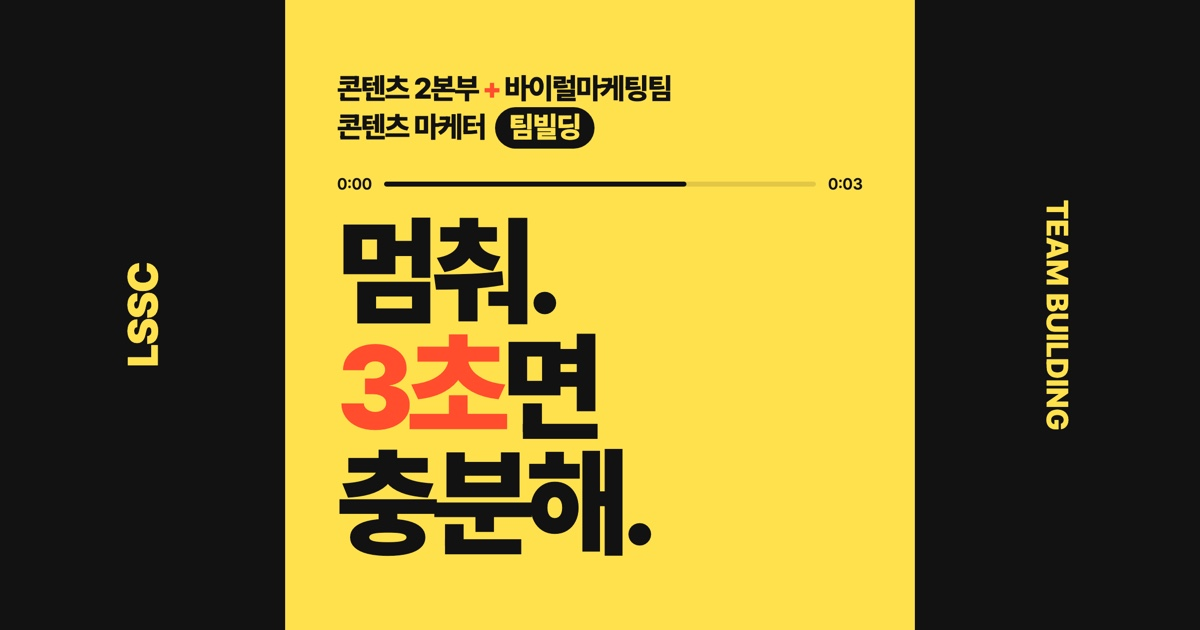
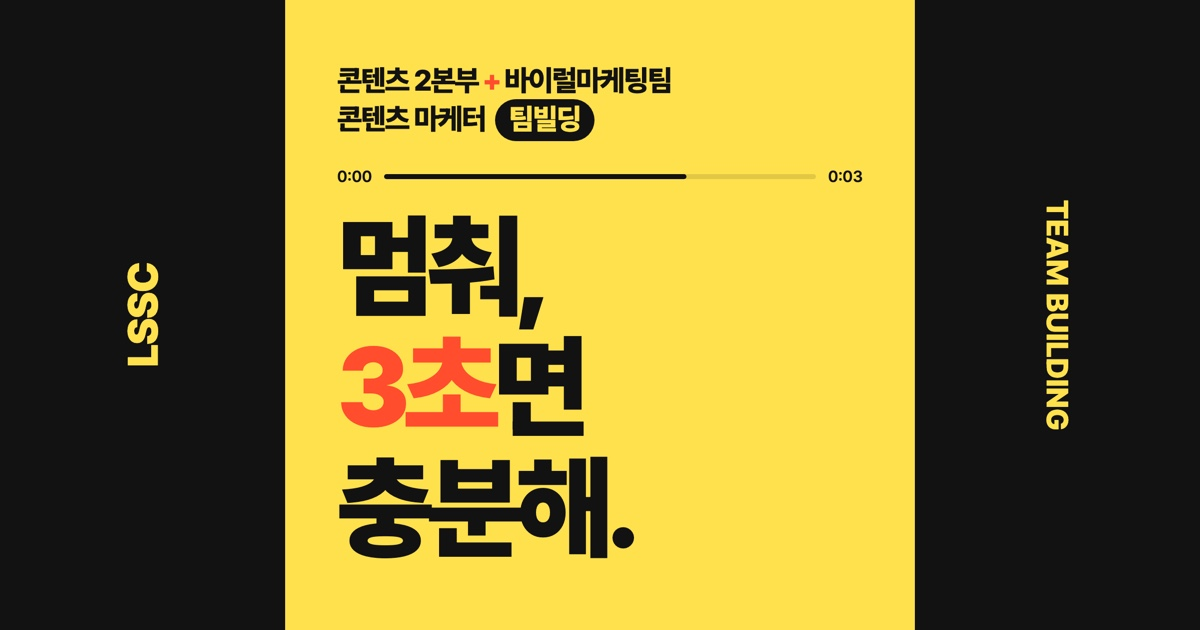
제목 '멈춰.'를 '멈춰,'로 변경 (페이지·썸네일)

Changed region(s): [[0.2775, 0.3317, 0.555, 0.9048], [0.2775, 0.0905, 0.555, 0.2413], [0.2775, 0.2714, 0.74, 0.3016]]

diff --git a/index.html b/index.html
@@ -63,7 +63,7 @@ a:focus-visible,button:focus-visible{outline:2px solid var(--ink);outline-offset
 .tc .track{flex:1;height:4px;border-radius:999px;background:rgba(18,18,18,.12);overflow:hidden}
 .tc .track i{display:block;height:100%;width:0;border-radius:999px;background:var(--ink);animation:tc 3s linear infinite}
 @keyframes tc{to{width:100%}}
-.hero h1{font-weight:900;font-size:clamp(76px,16vw,196px);line-height:.98;letter-spacing:-.065em;margin-top:24px}
+.hero h1{font-weight:900;font-size:clamp(76px,16vw,196px);line-height:1.06;letter-spacing:-.065em;margin-top:24px}
 .hero h1 em{font-style:normal;color:var(--red)}
 .hero-sub{font-size:clamp(20px,2.6vw,28px);font-weight:700;letter-spacing:-.03em;margin-top:32px}
 .hero-lead{font-size:17px;line-height:1.75;color:#3a3826;max-width:34em;margin-top:14px}
@@ -233,7 +233,7 @@ footer .fine{width:100%;font-size:12px;color:#7a7a74;margin-top:8px}
   <div class="inner">
     <p class="hero-team">콘텐츠 2본부<span class="plus">+</span>바이럴마케팅팀 콘텐츠 마케터 <span class="tb">팀빌딩</span></p>
     <div class="tc" aria-hidden="true"><span>0:00</span><span class="track"><i></i></span><span>0:03</span></div>
-    <h1>멈춰.<br><em>3초</em>면<br>충분해.</h1>
+    <h1>멈춰,<br><em>3초</em>면<br>충분해.</h1>
     <p class="hero-sub">스크롤을 멈추게 하라, 승부는 첫 3초.</p>
     <p class="hero-lead">LSSC 콘텐츠본부는 첫 3초의 훅으로 고객을 멈춰 세우고, 그 3초를 매출로 바꾸는 팀입니다. 지금 <strong>콘텐츠 2본부</strong>와 <strong>바이럴마케팅팀</strong>에서, LSSC의 <strong>Phase2</strong>를 만들어 갈 동료를 모십니다.</p>
     <div class="hero-cta">

diff --git a/assets/og-source.html b/assets/og-source.html
@@ -17,7 +17,7 @@ body{background:#ffe14d;color:#121212;font-family:"PV",sans-serif;position:relat
 .tc{display:flex;align-items:center;gap:12px;margin-top:26px;font-size:16px;font-weight:600}
 .tc i{flex:1;height:5px;border-radius:9px;background:rgba(18,18,18,.12);position:relative}
 .tc i::after{content:"";position:absolute;left:0;top:0;bottom:0;width:70%;border-radius:9px;background:#121212}
-.big{font-size:118px;font-weight:900;line-height:.98;letter-spacing:-7px;margin-top:20px}
+.big{font-size:112px;font-weight:900;line-height:1.08;letter-spacing:-7px;margin-top:20px}
 .big em{font-style:normal;color:#ff4d2e}
 </style></head><body>
 <div class="side l"><span>LSSC</span></div>
@@ -25,6 +25,6 @@ body{background:#ffe14d;color:#121212;font-family:"PV",sans-serif;position:relat
 <div class="c">
   <p class="team">콘텐츠 2본부<b>+</b>바이럴마케팅팀<br>콘텐츠 마케터 <span class="tb">팀빌딩</span></p>
   <div class="tc"><span>0:00</span><i></i><span>0:03</span></div>
-  <p class="big">멈춰.<br><em>3초</em>면<br>충분해.</p>
+  <p class="big">멈춰,<br><em>3초</em>면<br>충분해.</p>
 </div>
 </body></html>
